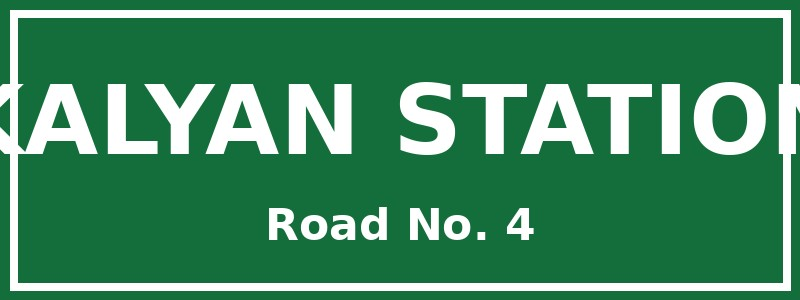
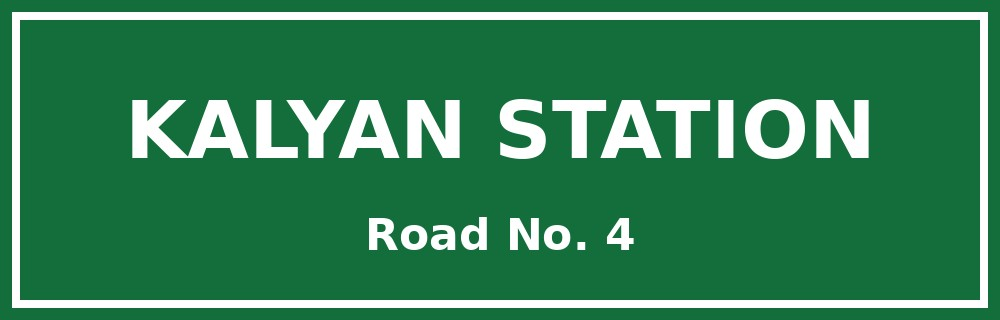
fix(test): regenerate OCR signboard fixture

Changed region(s): [[0.0, 0.03, 1.0, 0.99], [0.5, 0.27, 1.0, 0.54], [0.3125, 0.66, 0.6875, 0.81]]

diff --git a/.claude/commands/next.md b/.claude/commands/next.md
@@ -1,10 +1,15 @@
-Do the next task. Never run git commit or git push.
+---
+description: Implement the next unticked feature task (F*) from docs/PROGRESS.md
+model: sonnet
+---
 
-1. Read CLAUDE.md, docs/PROGRESS.md, docs/PRD.md, docs/ARCHITECTURE.md, docs/DESIGN.md.
-2. Pick the first unticked feature task (F*) in PROGRESS.md (skip Mac visit rows; tell me if one is due).
-3. Restate its acceptance criteria from PRD.md and give a short file-level plan.
-4. Implement it fully, following DESIGN.md for every visual and motion decision, with XCTests for the logic.
-5. Update docs/PROGRESS.md and docs/SYLLABUS_MAP.md.
-6. Stop and give me: a suggested conventional commit message, what to test on the Mac (1-2 sentences), and the next task.
+Do the next task. Never run git commit or git push. CLAUDE.md is already in context: don't re-read it.
+
+1. Read docs/PROGRESS.md. Pick the first feature task (F*) that is still ☐ (skip Mac visit rows; tell me if one is due). If an earlier F* is ◐, check its CI with `gh run list --limit 1` and tick it if green.
+2. Read only what the task needs: its section of docs/PRD.md (`grep -n "^## F" docs/PRD.md`, then read that range), the matching parts of docs/ARCHITECTURE.md, and docs/DESIGN.md for anything visual. Don't re-read files already in context.
+3. Restate its acceptance criteria in two or three lines and give a short file-level plan.
+4. Implement it fully, following DESIGN.md for every visual and motion decision, with XCTests for the logic. Read neighbouring files with `grep`/`sed -n` ranges, not whole-file reads. No Docker or other local verification unless I ask: CI is the compiler.
+5. Update docs/PROGRESS.md (tick the task, add a log entry of at most three lines) and the matching rows in docs/SYLLABUS_MAP.md (edit rows in place; don't rewrite the file).
+6. Stop and give me: a suggested conventional commit message, what to test on the Mac (1-2 sentences), and the next task. Keep the report short.
 
 $ARGUMENTS
